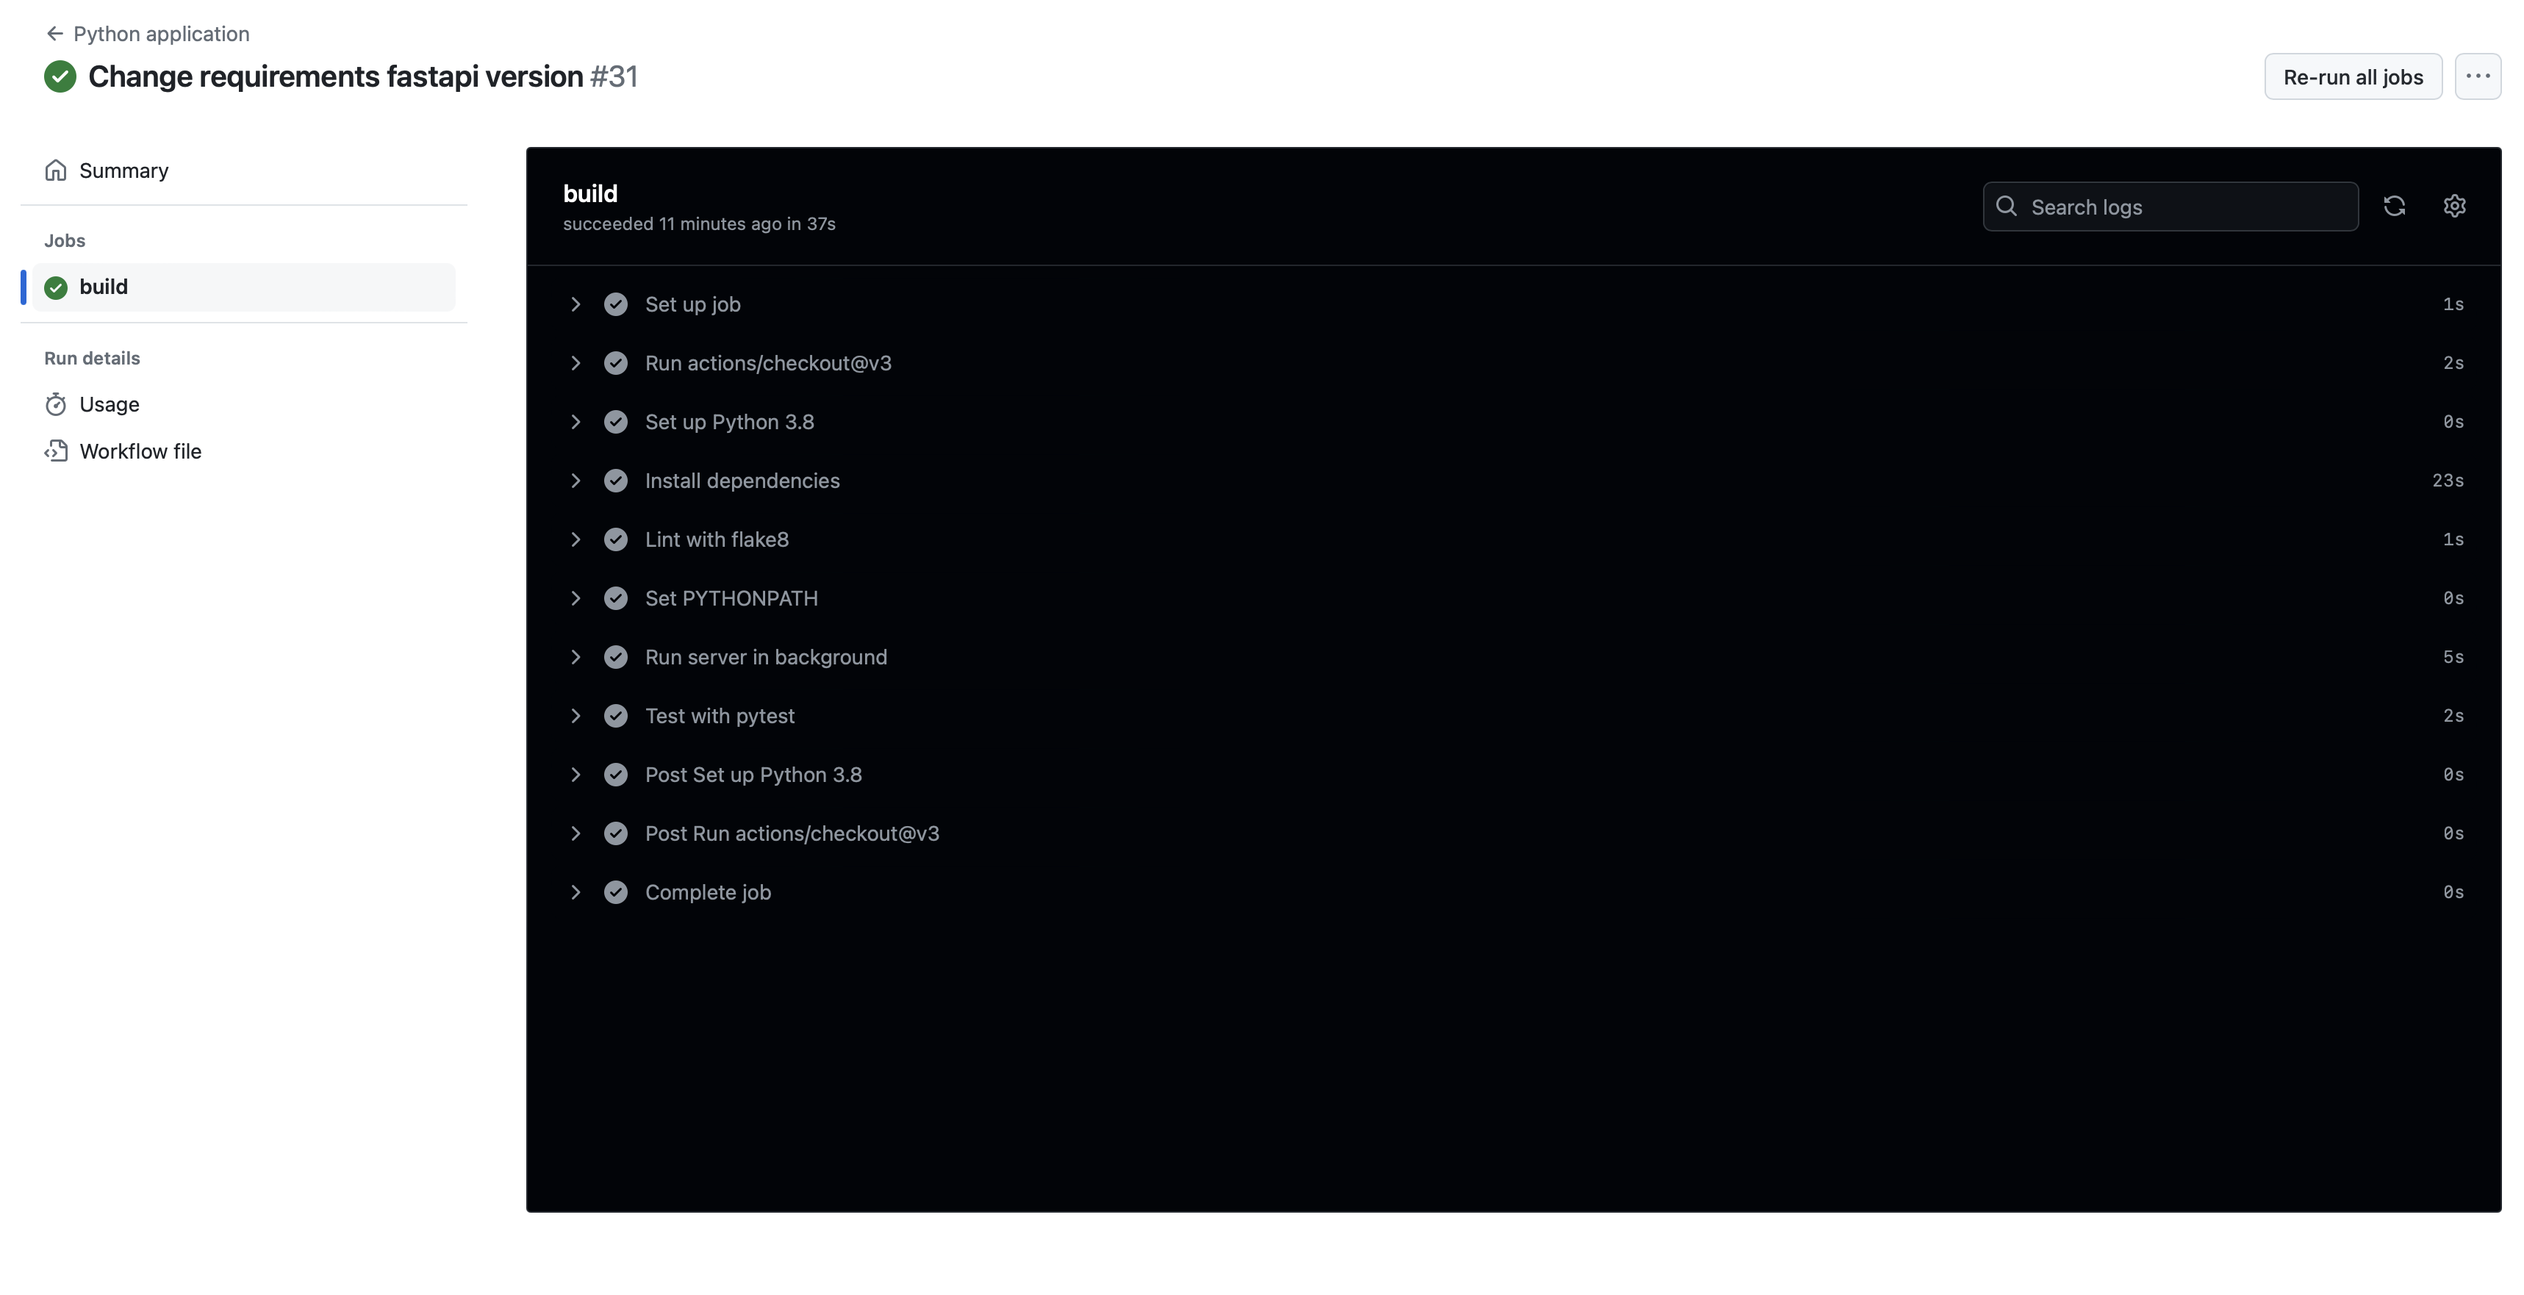
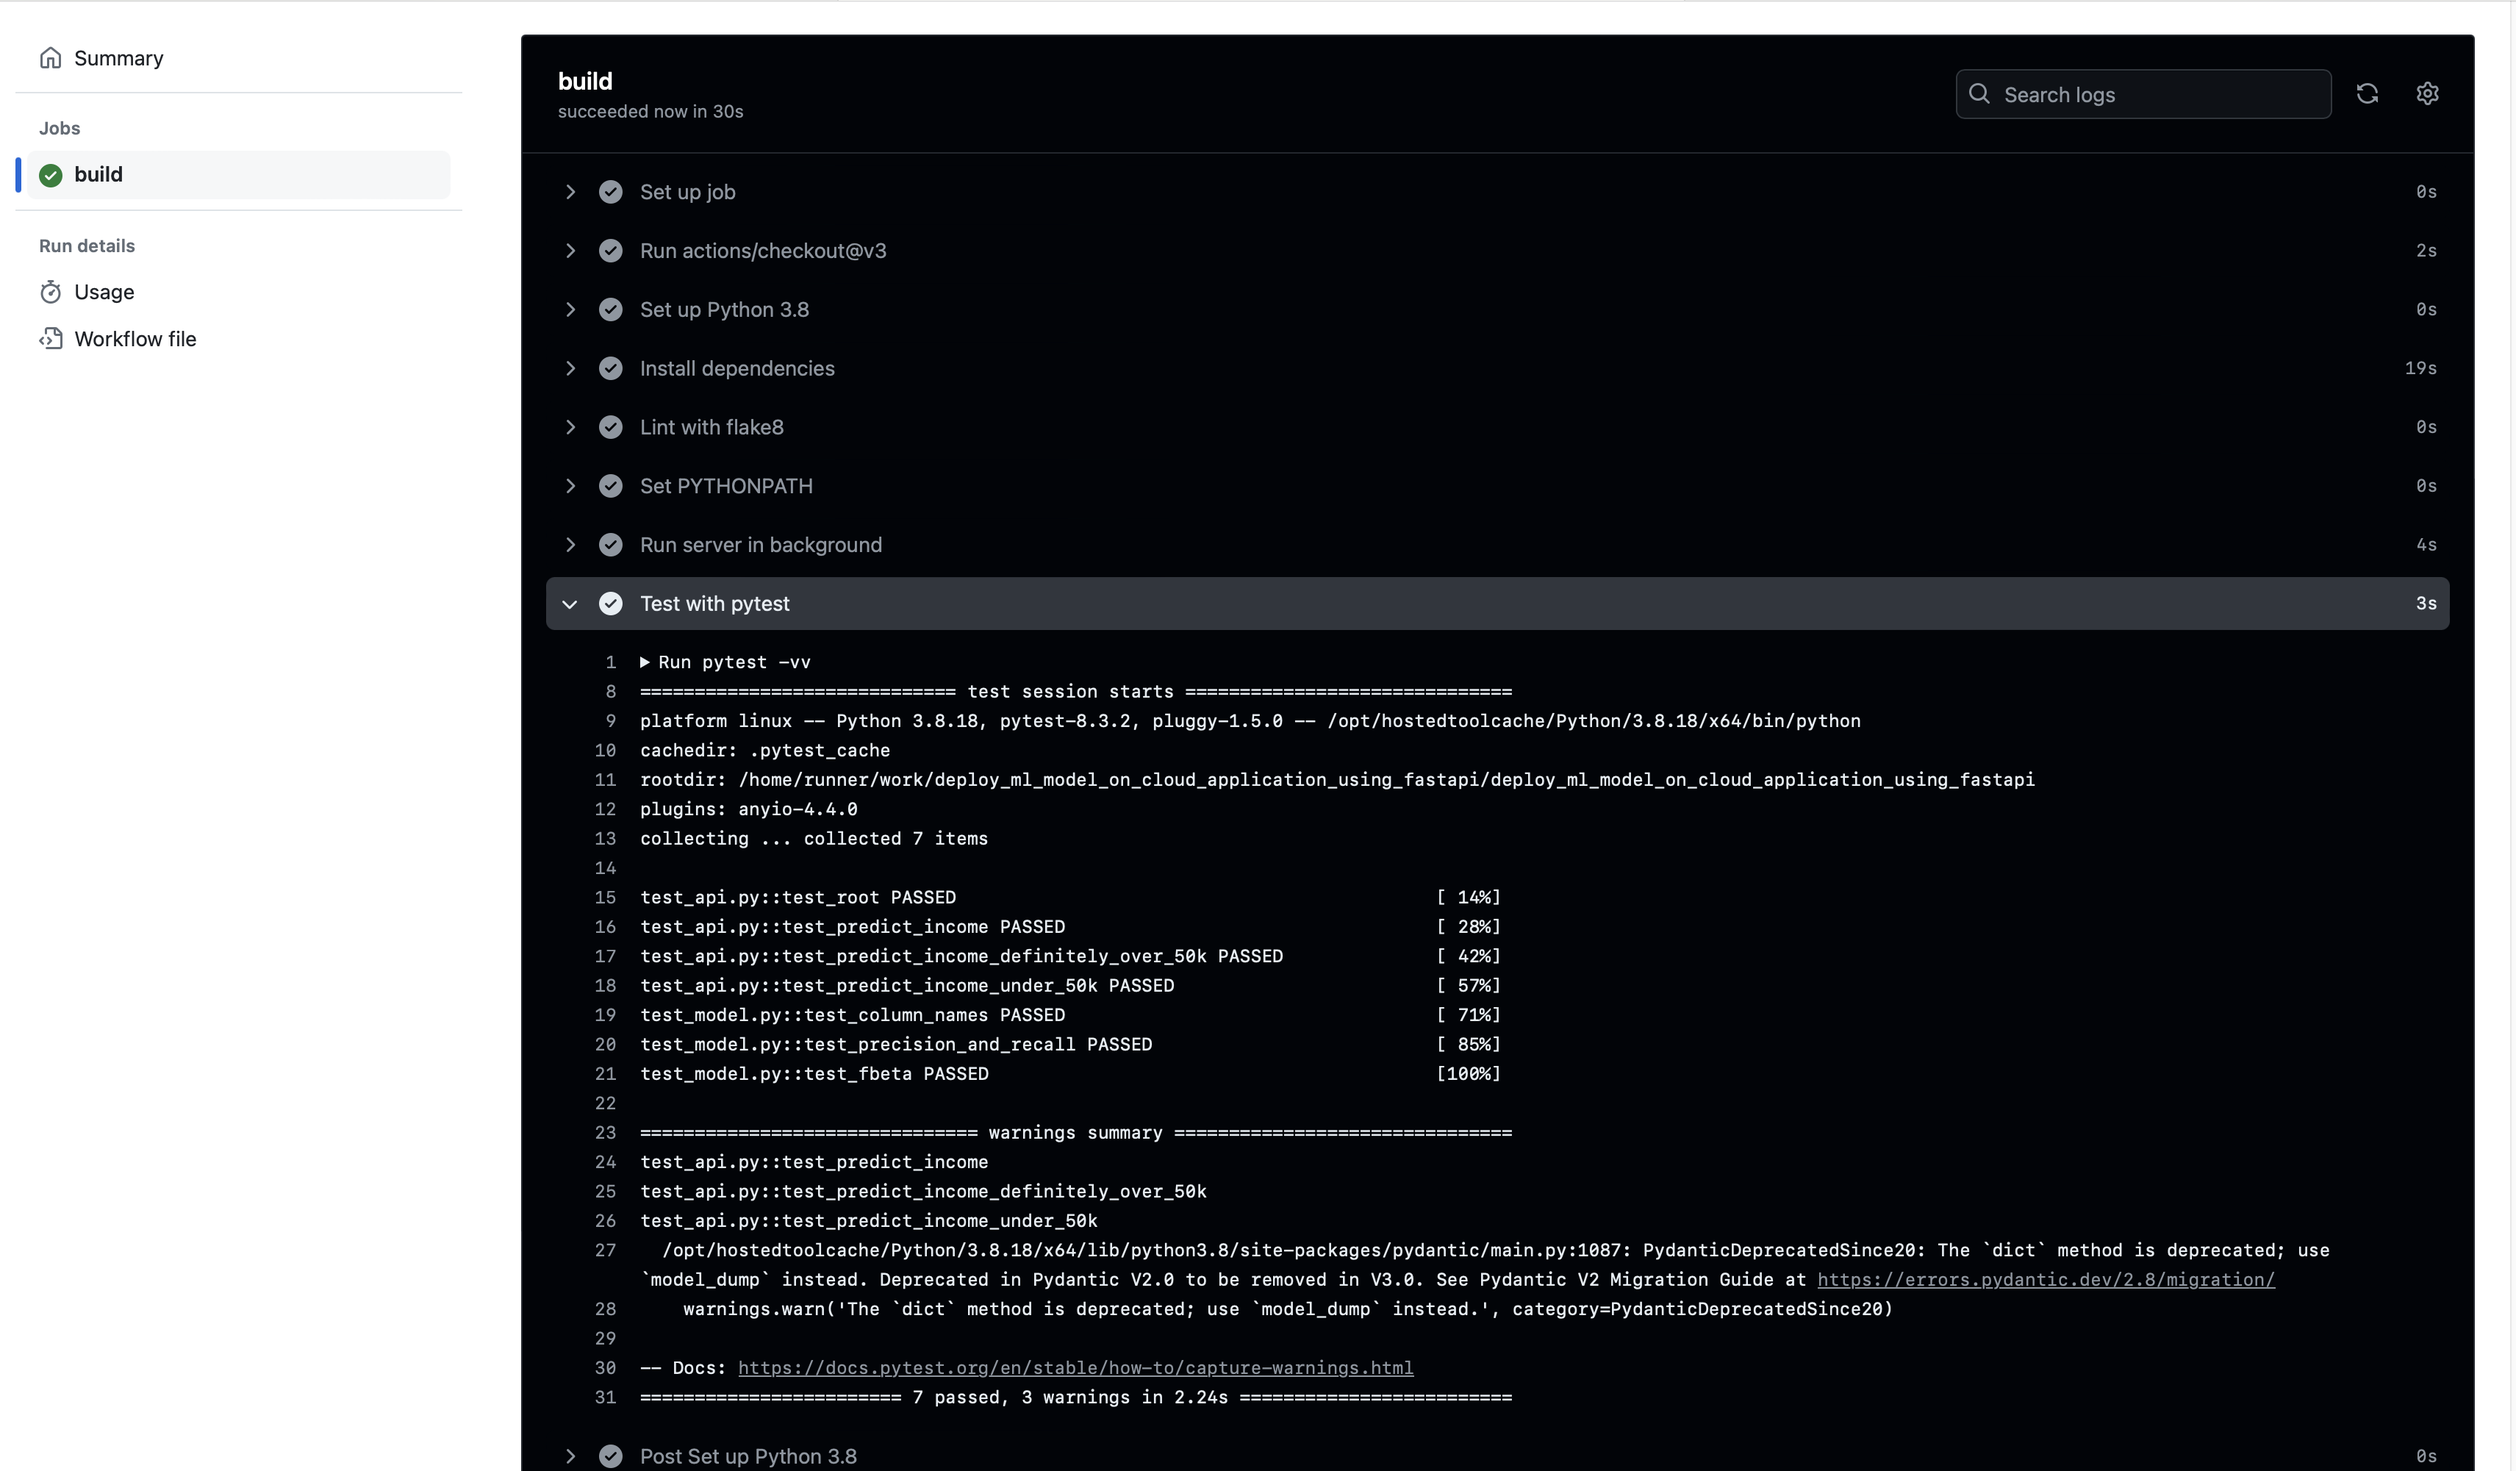
Modify model card

diff --git a/model_card.md b/model_card.md
@@ -2,7 +2,7 @@
 
 ## Model Details
 
-- **Model Type:** The model is a classification model, likely a Random Forest, trained to predict income categories based on various demographic and employment features.
+- **Model Type:** The model is a classification model, a Random Forest, trained to predict income categories based on various demographic and employment features.
 - **Hyperparameters:** The model has been configured with the following hyperparameters:
   - `n_estimators`: 300
   - `min_samples_split`: 10
@@ -16,11 +16,11 @@ The model has been developed to classify individuals into income categories, spe
 
 ## Training Data
 
-The training data consists of demographic and employment information, including features such as workclass, education, and native country.
+The training data consists of demographic and employment information, including features such as workclass, education, and native country. 80% of the data is used for training. 
 
 ## Evaluation Data
 
-The model has been evaluated on a test dataset with similar features to those used in training. Specific slices of data (e.g., based on workclass, education, and native country) have been analyzed to assess model performance across different demographic groups.
+The model has been evaluated on a test dataset with similar features to those used in training. 20% of the data is allocated to the test set, which is used for evaluation purposes. Specific slices of data (e.g., based on workclass, education, and native country) have been analyzed to assess model performance across different demographic groups.
 
 ## Metrics
 
